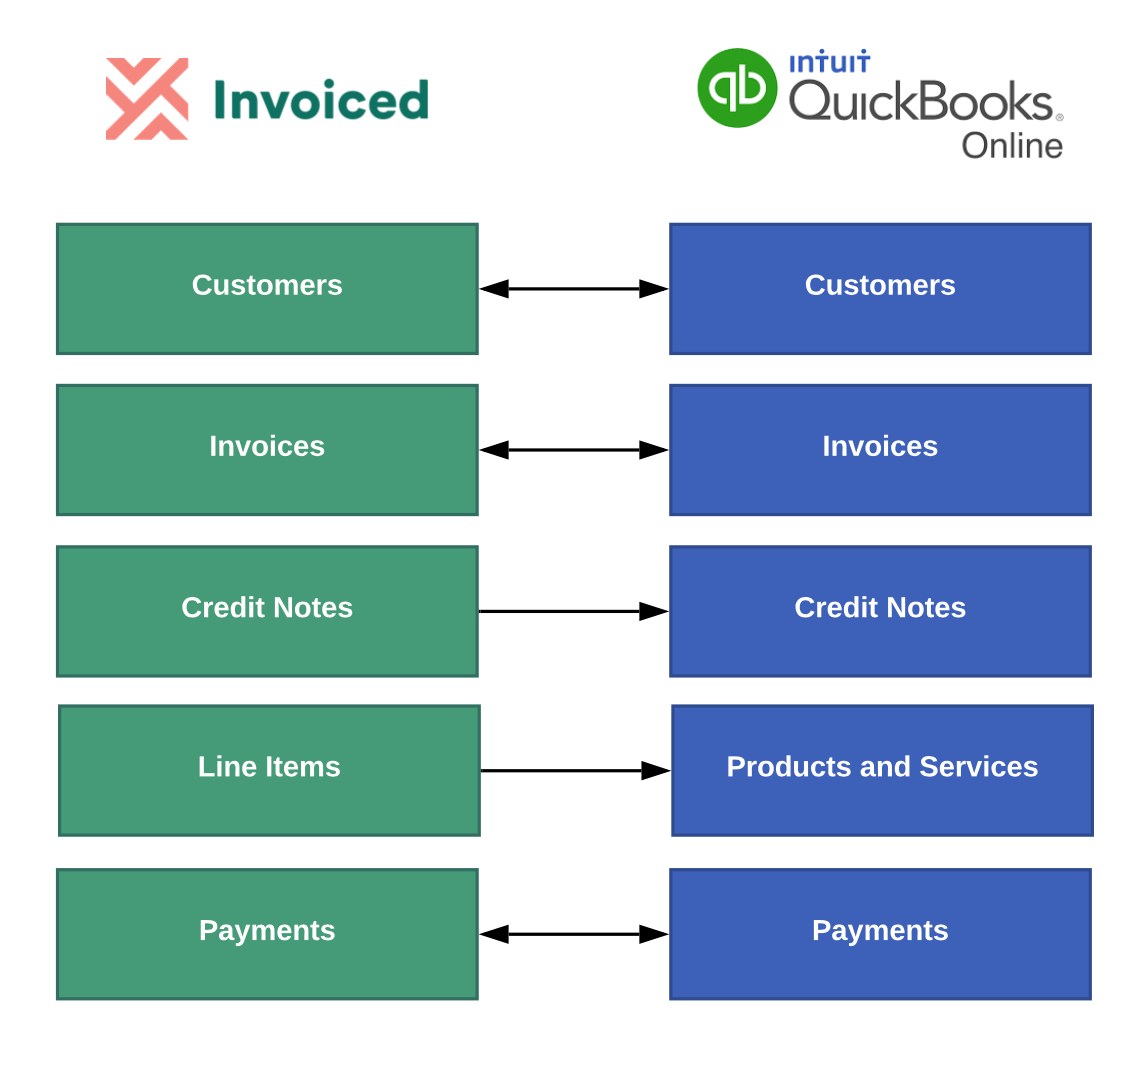
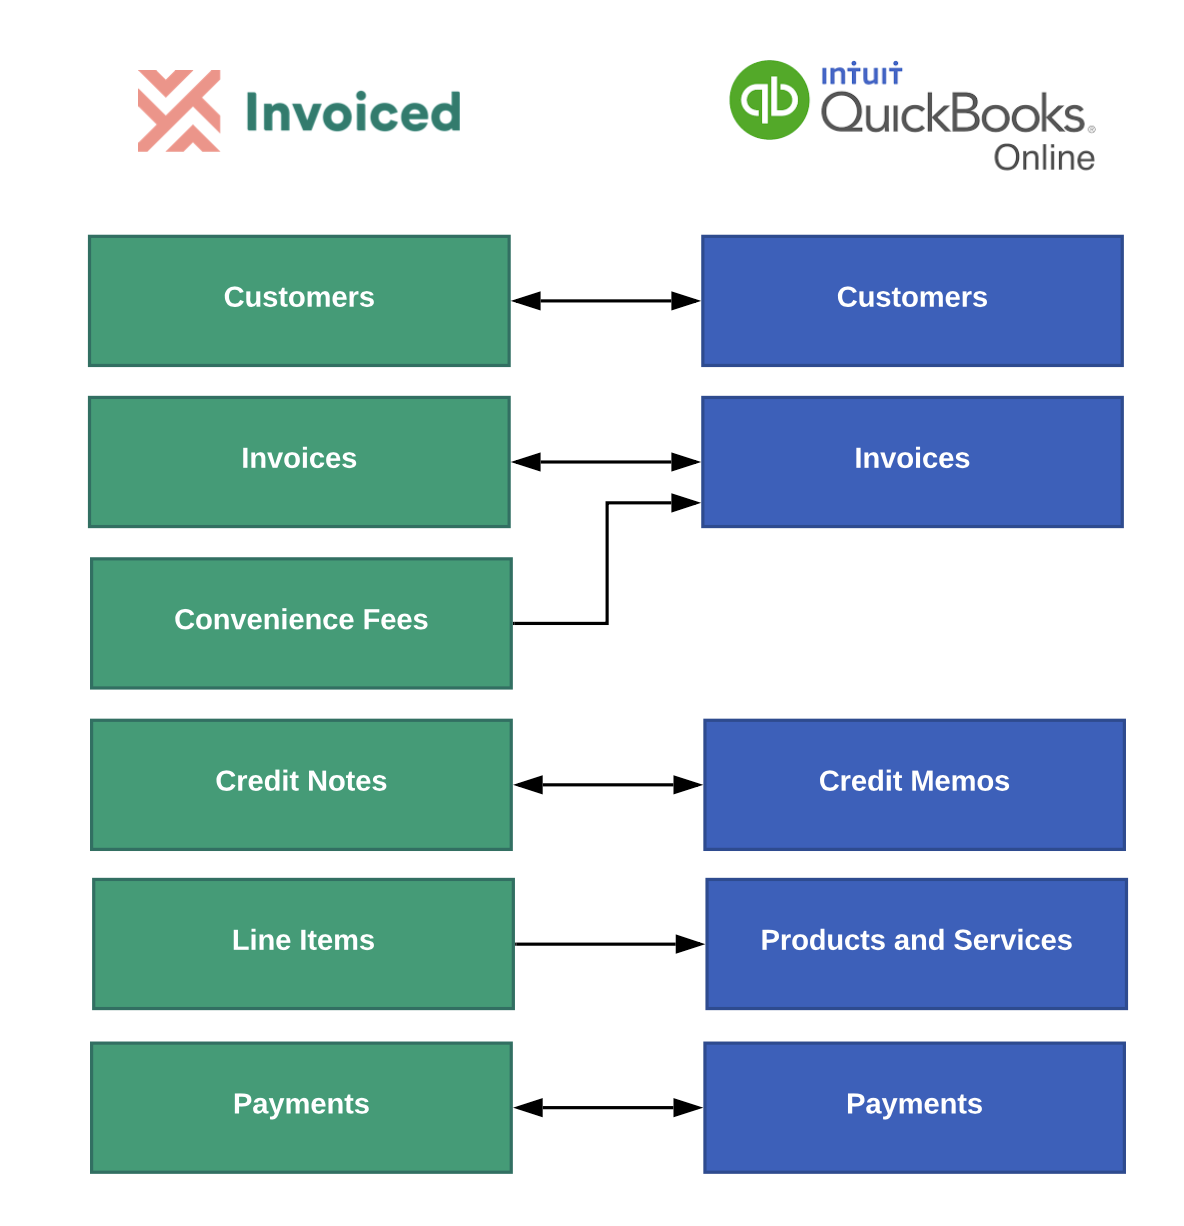
update qbo integration docs

diff --git a/accounting/quickbooks-online.md b/accounting/quickbooks-online.md
@@ -6,12 +6,10 @@ Invoiced integrates with QuickBooks Online out of the box to extend the billing 
 
 The QuickBooks Online integration ships with the following capabilities:
 
-- Importing outstanding invoices from QuickBooks Online
-- Importing contacts from QuickBooks Online
-- Writing invoices generated on Invoiced to QuickBooks Online
-- Reconciling payments received on Invoiced to QuickBooks Online
-- Syncing payments recorded on QuickBooks Online to Invoiced
-- Most data flows happen in real-time
+- Bi-directional sync with QuickBooks Online
+- New data from QuickBooks Online is synced once per hour
+- Transactions generated on Invoiced post to QuickBooks Online in real-time
+- Import tool to bring customers and historical transactions from QuickBooks Online
 
 [![QuickBooks Online Data Flow](/docs/img/qbo-object-mapping.png)](/docs/img/qbo-object-mapping.png)
 
@@ -29,25 +27,25 @@ The QuickBooks Online integration ships with the following capabilities:
 
 4. You will be redirected back to Invoiced. QuickBooks Online is now connected! Now you can configure the accounting sync in order to tell Invoiced how to map the data into your general ledger.
 
-5. Change the account mapping and other settings. Click **Save**.
-
-### Account Mapping
-
-Invoiced will create the following accounts in your G/L if you do not specify an account:
-
-- "Invoiced Account" - income account for new Products/Services created on QuickBooks from Invoiced line items
-- "Invoiced Discount" - income account for discounts
-- "Imported Invoiced Tax Code" - tax code for taxes received on Invoiced
+5. Configure the data flows you wish to enable and any account mappings. Click **Save**.
 
 ## Usage
 
-Once the QuickBooks Online integration is enabled it will sync data automatically on a going forward basis per the data flows that you have enabled. 
+Once the QuickBooks Online integration is enabled it will sync data automatically on a going forward basis per the data flows that you have enabled.
+
+Writing data from Invoiced to QuickBooks Online will sync instantly.
+
+Reading data from QuickBooks Online to Invoiced, such as when a new invoice is available, will sync once per hour. You can see when the last sync happened on the **Accounting Sync** page. If you wish to run a one-off sync you can click the **Sync Now** button.
+
+### Handling Errors
+
+On the **Accounting Sync** page you will see a *Reconciliation Errors* table which contains any sync errors that the integration encountered. Each error listed belongs to individual record that could not be synced. The error message is listed next to each failed record. When a record fails to sync it will not be re-attempted unless there is a new operation (i.e. updating the record) that triggers a new sync. You can retry syncing any failed record by clicking the **Retry** button or you can ignore the error by clicking the **Ignore** button. Errors will not go away until they are successful or ignored. 
 
 ### Field Mapping
 
 We support setting several optional fields on QuickBooks Online that do not have a standard Invoiced field. This can be useful if you are first creating invoices on Invoiced and posting to QuickBooks Online.
  
-The mappings happen automatically when a record on Invoiced has a custom field with a specific ID that corresponds to a specific field on QuickBooks Online. This gives you granular control of the data sent to QuickBooks Online.
+These additional field mappings work when a record on Invoiced has a custom field with a specific ID that corresponds to a specific field on QuickBooks Online. This gives you granular control of the data sent to QuickBooks Online.
 
 Object Type | Invoiced Custom Field ID    | QuickBooks Field
 ------------|-----------------------------|------------------
@@ -70,7 +68,12 @@ You can map the accounts in which payments are deposited into. By default, payme
 
 ### Import Historical Data
 
-You can import your customer list and outstanding invoices from QuickBooks Online that were created before the Invoiced integration was installed.
+You can import data from QuickBooks Online into Invoiced for the time period before the Invoiced integration was installed. This data can be imported:
+
+- Customers
+- Open and/or paid invoices
+- Credit memos
+- Payments
 
 Instructions:
 
@@ -78,11 +81,13 @@ Instructions:
 
 2. Select **QuickBooks**.
 
-3. Click **Start**.
+3. Configure the data you wish to import, date range, and any other settings.
 
-4. The importer will begin working. You are free to leave the page once the import starts. If you leave you will get an email afterwards with the result.
+4. Click **Start**.
 
-5. Once the import is finished you will see the newly imported data on the **Customers** and **Invoices** page.
+5. The import tool will begin processing your request. You are free to leave the page once the import starts. You will get an email afterwards with the result.
+
+6. Once the import is finished you will see the newly imported data on Invoiced. The import detail screen has a list of all records that were imported.
 
 ## Edge Cases
 
@@ -96,7 +101,7 @@ Here we have documented all of the limitations, nuances, and edge cases to be aw
 
 - Only issued invoices (not a draft) on Invoiced will be synced.
 
-- The sync will create an item in QuickBooks for each line item. If the line item name is blank then a generic Invoiced item will be used.
+- The sync will match each line item to a product or service in QuickBooks based on the line item name. If the product or service does not exist then it will create an item in QuickBooks. If the line item name is blank then a generic Invoiced item will be created.
 
 - Line item descriptions over 4,000 characters are truncated due to a character limit in QuickBooks.
 
@@ -104,9 +109,7 @@ Here we have documented all of the limitations, nuances, and edge cases to be aw
 
 - Credit balances from Invoiced do not sync to Quickbooks Online.
 
-- Invoices created in Invoiced will not post to Quickbooks Online if the invoice has a date that is in a closed accounting period.
-
-- Payments created in Invoiced will not post to Quickbooks Online if the payment has a date that is in a closed accounting period.
+- Transactions created in Invoiced (invoices, payments, credit notes) will not post to Quickbooks Online if the transaction has a date that is in a closed accounting period.
 
 - Voiding a credit note on Invoiced will not void the credit memo on QuickBooks. This is due to a technical limitation in the QuickBooks API.
 
